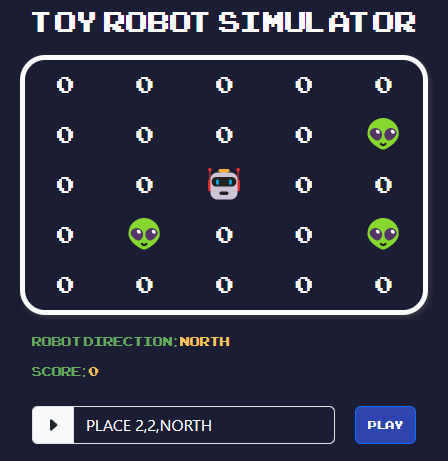
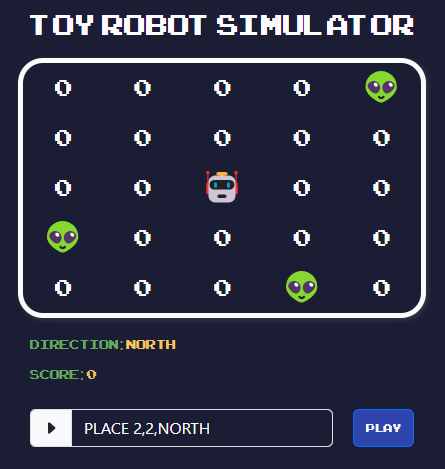
small fix graphics and image

diff --git a/src/app/model/game-models.ts b/src/app/model/game-models.ts
@@ -22,7 +22,7 @@ export enum ALERT_MSG {
     invalid_input = "Input not valid!",
     out = "This command place robot out of the table! Retry",
     win = "Defeated all the aliens!",
-    win_desc = "Use the command 'PLACE'  to restart the game."
+    win_desc = "Use the command 'PLACE'  to generate new aliens."
 }
 
 //NORTH, SOUTH, EAST or WEST

diff --git a/src/app/game/game.component.html b/src/app/game/game.component.html
@@ -15,7 +15,7 @@
         </table>
     </div>
     <div class="row mt-3">
-        <h6 class="robot-direction">Robot direction: 
+        <h6 class="robot-direction">Direction: 
             @if (robot.direction) {
                 <span class="direction-field">{{robot.direction}}</span>
             } @else {

diff --git a/src/app/game/game.component.ts b/src/app/game/game.component.ts
@@ -142,7 +142,6 @@ export class GameComponent implements OnInit{
     }
 
     placeAlien(x: number, y: number) {
-      console.log(x,y);
       if( !this.isValid(x, y) ) {
         this.showAlert(ALERT_MSG.out);
         return false;
